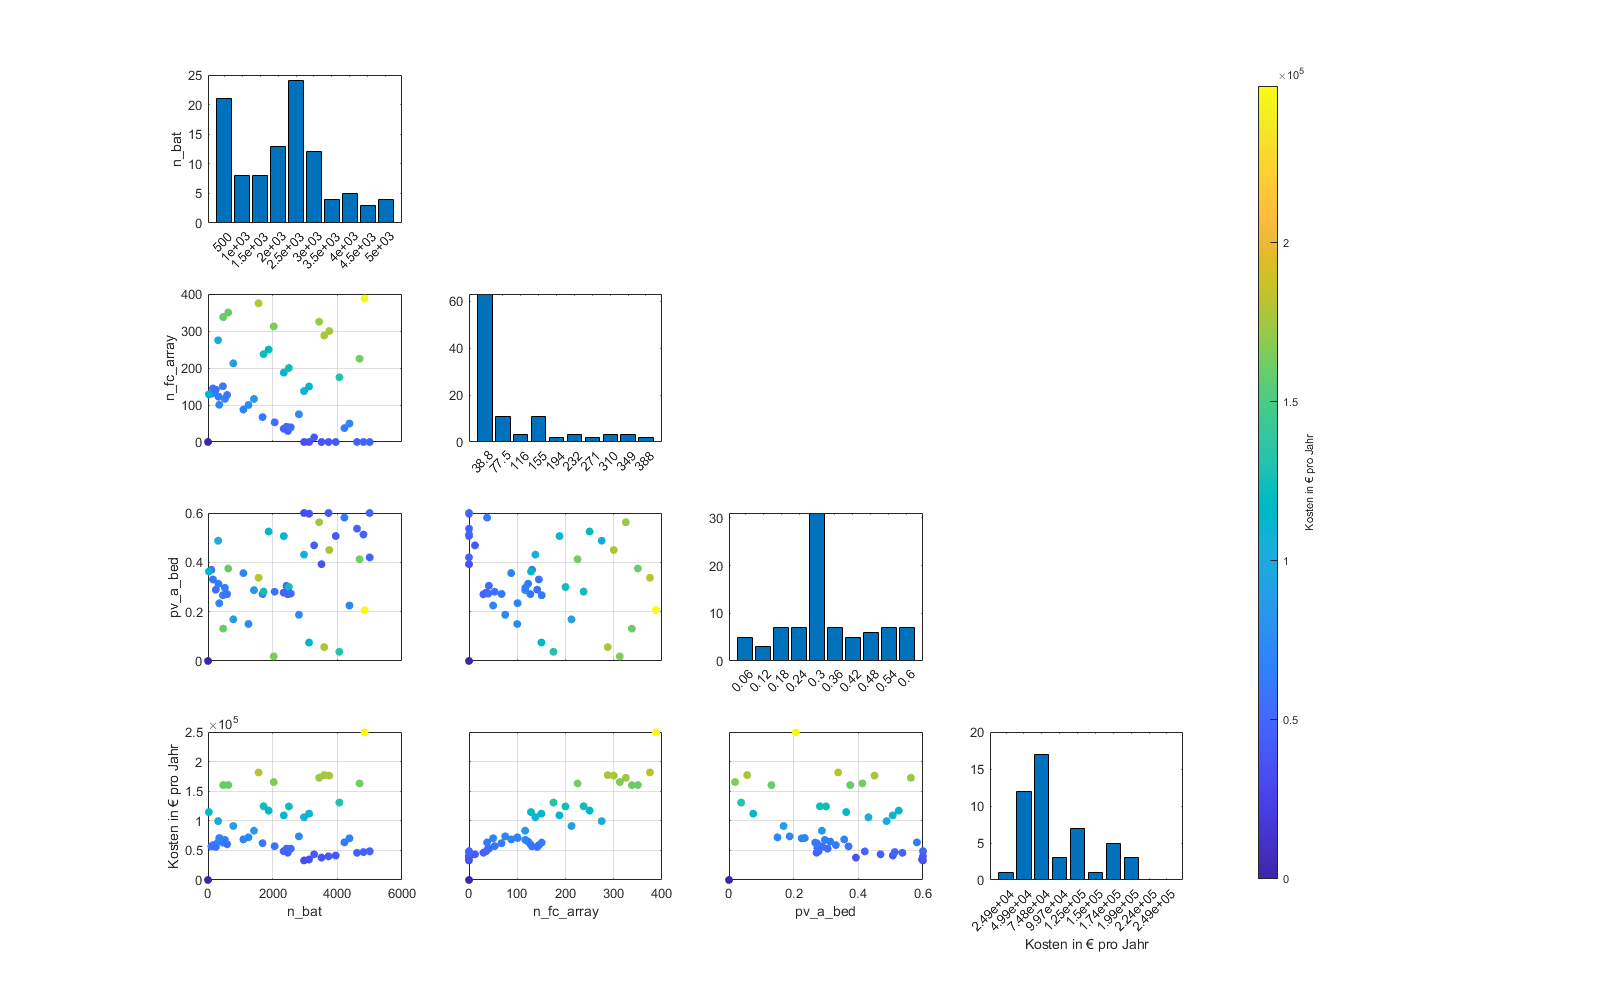
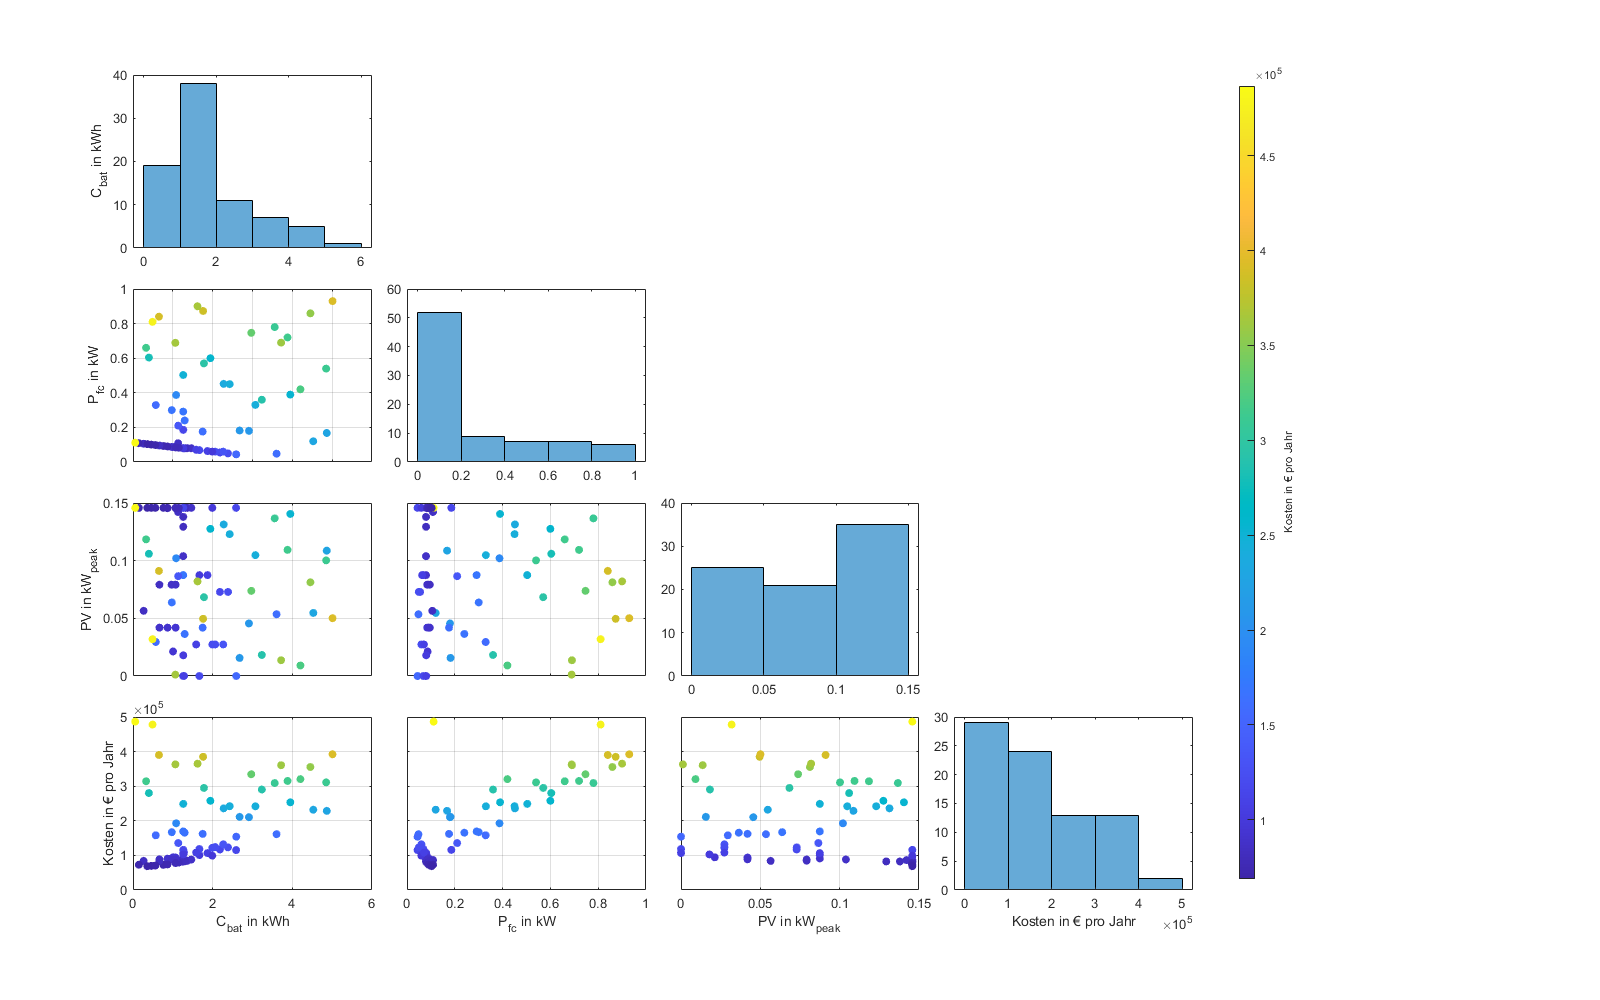
subplot to tiledlayout + barplots to histogram
Changed subplot to tiledlayout, tight fitting + changed barplots to histograms

Changed region(s): [[0.0625, 0.062, 0.75, 0.961], [0.75, 0.062, 0.8125, 0.899], [0.4375, 0.496, 0.4688, 0.527]]

diff --git a/README.md b/README.md
@@ -1,6 +1,6 @@
 # Matlab-plotmatrixColobar
 Create a plotmatrix style figure with colored scatteplot. 
-Give a Table with variable names as x/ylabels and the figure sz (default \[1600,1000\]). The last column entry in the table is the used for the colorbar. 
+Give a Table with variable names as x/ylabels and the figure sz (default \[1600,1000\]). The last column entry in the table is used for the colorbar. 
 
 This Version works the way I need it. I see many ways that could make it more usefull for other cases.
 
